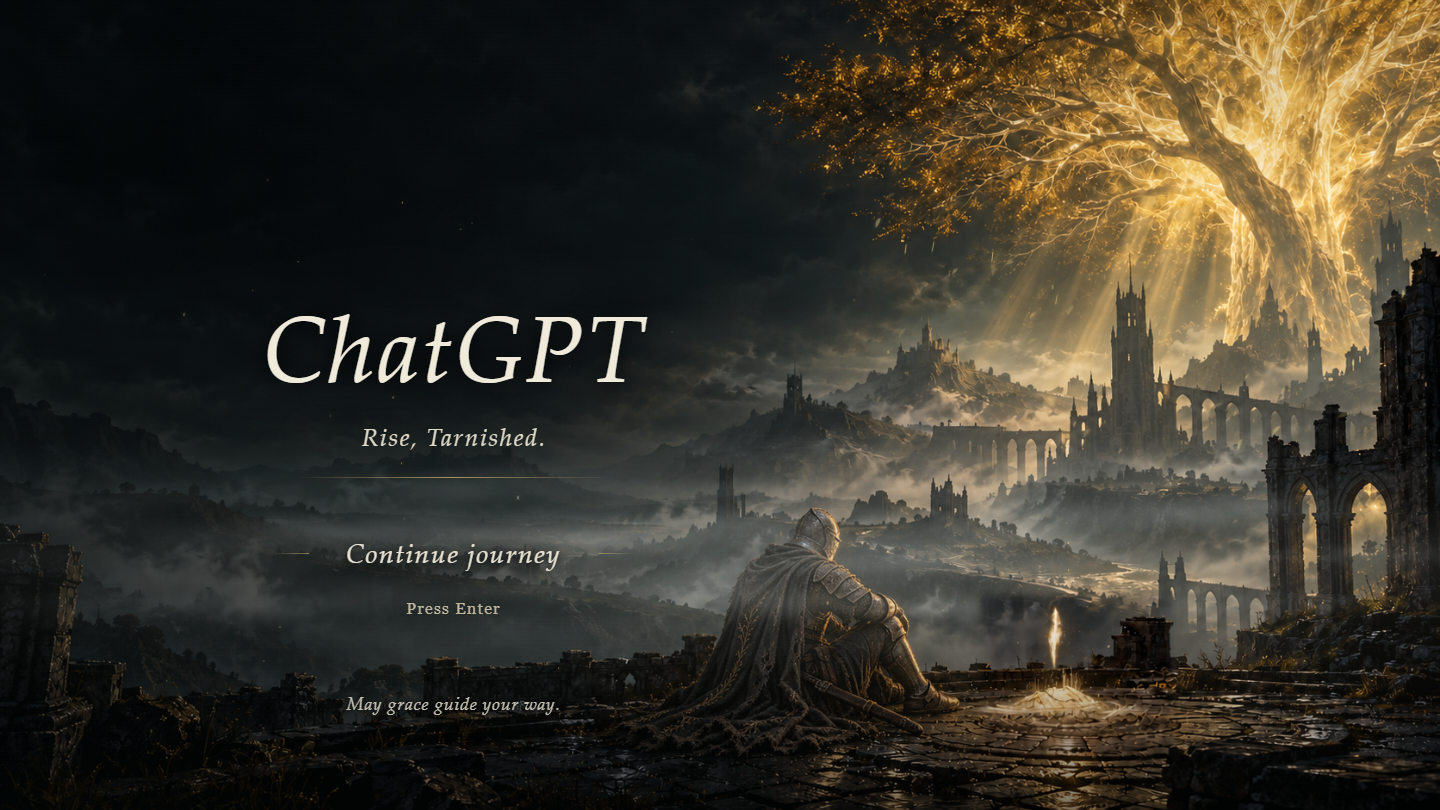
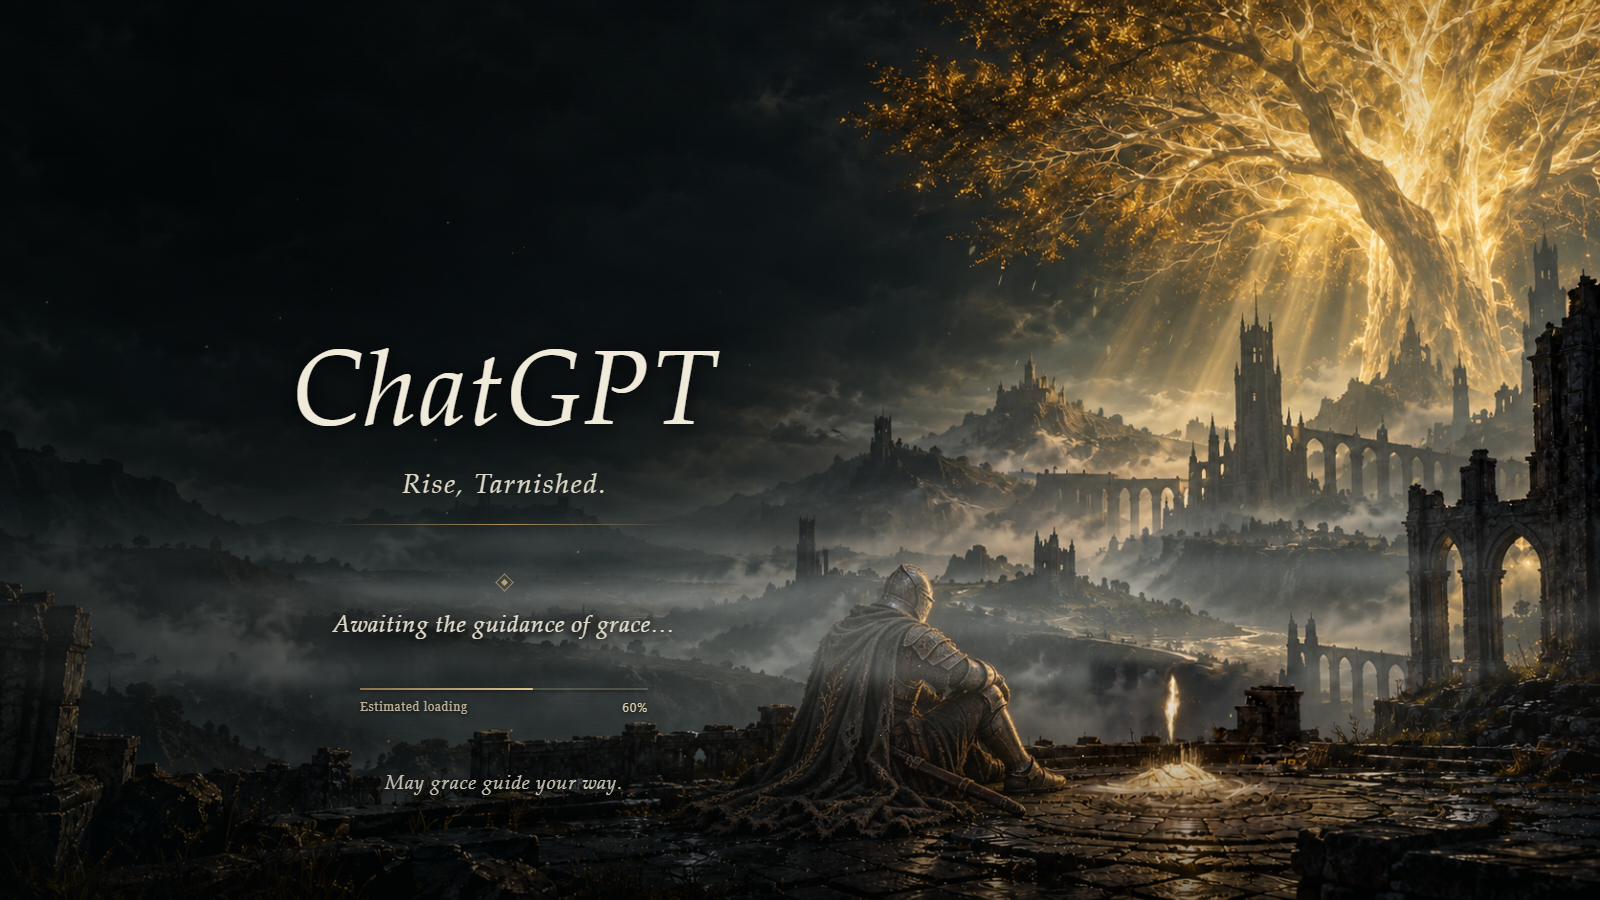
Refresh progress previews and document safe recovery limits [skip ci]

diff --git a/docs/COMPATIBILITY.md b/docs/COMPATIBILITY.md
@@ -40,7 +40,11 @@ The configured app's verified main process may still be running in the backgroun
 
 ## Continue stays unavailable
 
-Readiness uses Windows UI Automation to detect a usable editor, rather than a fake timer. An official app update, login screen, accessibility change, or modal can prevent that detection. After 30 seconds, **Open ChatGPT directly** becomes available as a manual fallback. The name reflects the configured app's window naming in the initial implementation.
+Readiness uses Windows UI Automation to detect a usable editor. An official app update, login screen, accessibility change, or modal can prevent that detection. After 30 seconds, **Check again** restarts the check; it cannot bypass readiness or reveal an unready app. Each scan runs in an owned, hidden helper that times out after five seconds. A retry or closing the loader cancels that helper.
+
+The thin loading bar shows an estimated integer percentage, not an internal app loading API. Its pace adapts to recent successful launches on the current machine. Stage ceilings prevent a slow or stalled startup from reporting 100% prematurely. Local timing history is stored in the scene's browser storage; demo mode does not train it. Resetting WebView data clears the estimate's history.
+
+If the official app is stuck at login or a modal, close the loader with its native title-bar X and finish that step in the official app. Do not expect repeated clicks on Check again to dismiss an app dialog.
 
 ## Continue appears to do nothing
 
@@ -51,6 +55,8 @@ The button immediately changes to **Entering...**. Snapshot preparation and the 
 Overlay/injection tools can conflict with embedded graphics. A native test encountered an access violation in an RTSS overlay module. Fatal browser/main-renderer failures now open the actual app directly and dispose the animation. That fatal-event recovery was added and compiled; it has not been exhaustively fault-tested against every overlay.
 
 The scene also has a canvas fallback when WebGL is unavailable and a simpler fade for reduced-motion settings. Keep graphics drivers and WebView2 Runtime maintained through their normal vendor channels.
+
+Version 1.0.2 retains the lightweight scene and original vortex fragments. Dense experimental meteor effects are not included. Automated build/regression checks cover the new recovery logic, but a fresh physical cold-start/handoff and a second-computer test of this version remain outstanding.
 
 ## Privacy and issue reports
 
